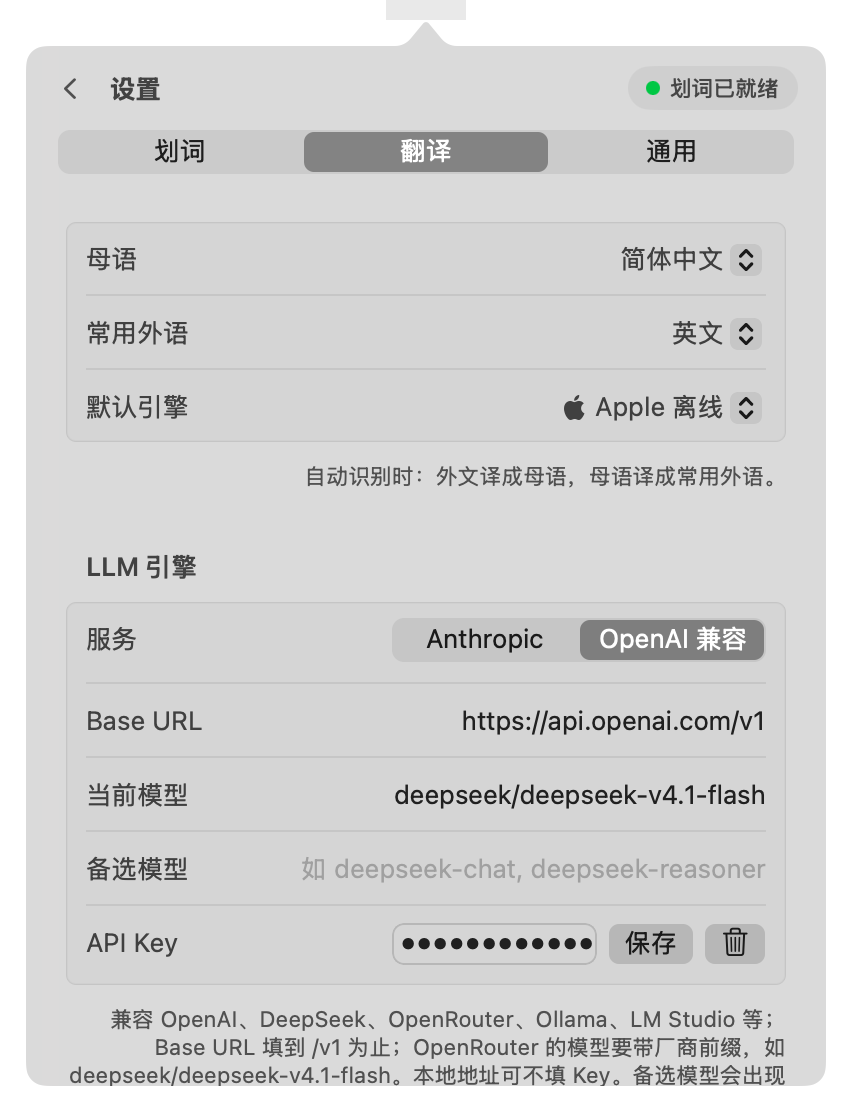
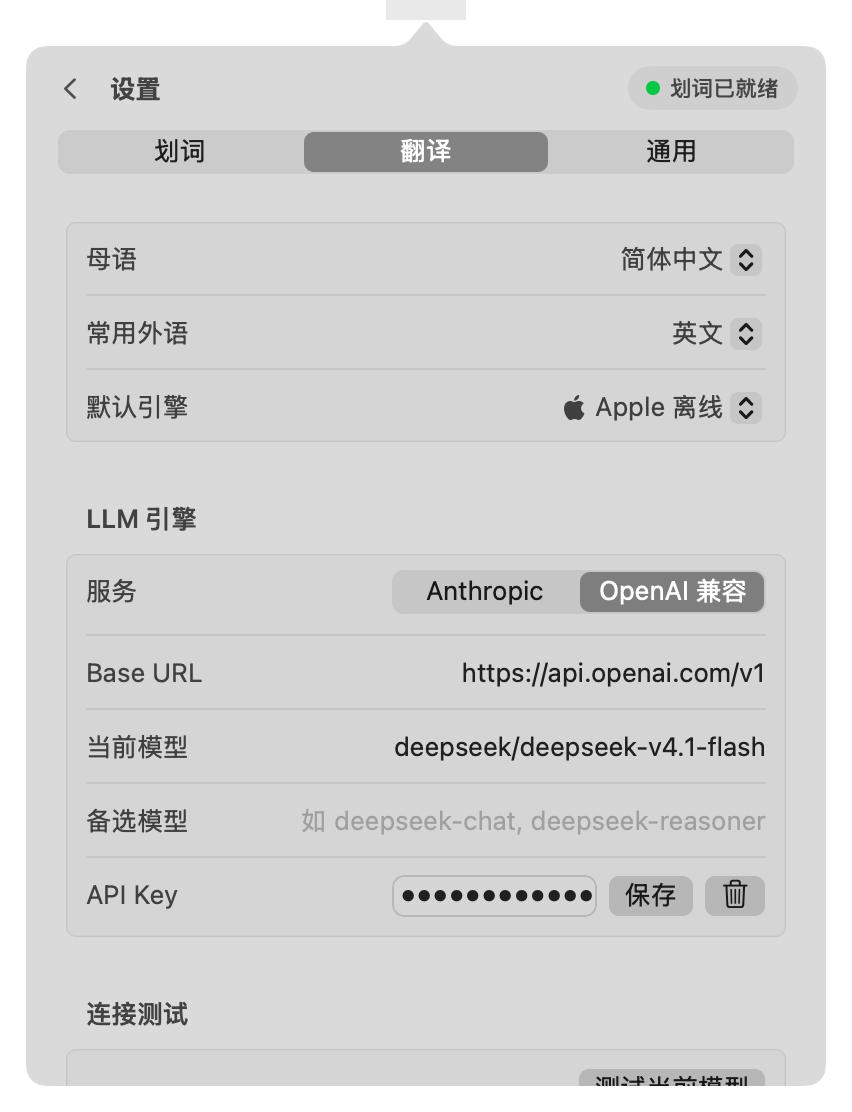
Remove descriptive footnotes and hints from the UI

diff --git a/Sources/bartrans/Views/SettingsView.swift b/Sources/bartrans/Views/SettingsView.swift
@@ -89,14 +89,8 @@ private struct SelectionSettings: View {
                         Image(systemName: "hand.raised.fill")
                             .font(.system(size: 18))
                             .foregroundStyle(.orange)
-                        VStack(alignment: .leading, spacing: 4) {
-                            Text("开启「辅助功能」权限")
-                                .font(.system(size: 13, weight: .semibold))
-                            Text("读取其它 App 中选中的文字需要这项权限。在「系统设置 → 隐私与安全性 → 辅助功能」中打开 bartrans；若已在列表中但不生效，先用「−」删除再重新添加。")
-                                .font(.system(size: 11))
-                                .foregroundStyle(.secondary)
-                                .fixedSize(horizontal: false, vertical: true)
-                        }
+                        Text("开启「辅助功能」权限")
+                            .font(.system(size: 13, weight: .semibold))
                         Spacer(minLength: 0)
                         Button("去开启") {
                             permission.request()
@@ -123,16 +117,10 @@ private struct SelectionSettings: View {
                         Text(preset.label).tag(preset)
                     }
                 }
-            } footer: {
-                Text("拖选、双击、三击或 Shift+点击都会触发。没有选中文字时按快捷键，会打开菜单栏面板。")
-                    .settingsFootnote()
             }
 
             Section {
-                Toggle("兼容模式（模拟 ⌘C 读取）", isOn: $settings.clipboardFallback)
-            } footer: {
-                Text("Chrome、VS Code 等 App 不通过辅助功能提供选中文字。开启后会短暂借用剪贴板，读完立即还原。")
-                    .settingsFootnote()
+                Toggle("兼容模式", isOn: $settings.clipboardFallback)
             }
 
             Section {
@@ -158,9 +146,6 @@ private struct SelectionSettings: View {
                 }
             } header: {
                 Text("已停用划词的 App")
-            } footer: {
-                Text("在某个 App 中右键点击菜单栏图标，可以停用 / 恢复该 App 的划词。")
-                    .settingsFootnote()
             }
         }
         .formStyle(.grouped)
@@ -186,9 +171,6 @@ private struct TranslationSettings: View {
                         Label(engine.label, systemImage: engine.icon).tag(engine)
                     }
                 }
-            } footer: {
-                Text("自动识别时：外文译成母语，母语译成常用外语。")
-                    .settingsFootnote()
             }
 
             Section {
@@ -212,11 +194,6 @@ private struct TranslationSettings: View {
                 }
             } header: {
                 Text("LLM 引擎")
-            } footer: {
-                Text(settings.llmProvider == .anthropic
-                     ? "备选模型会出现在翻译面板的引擎菜单里，一键切换。划词追求速度可以用 claude-haiku-4-5。API Key 保存在钥匙串中。"
-                     : "兼容 OpenAI、DeepSeek、OpenRouter、Ollama、LM Studio 等；Base URL 填到 /v1 为止；OpenRouter 的模型要带厂商前缀，如 deepseek/deepseek-v4.1-flash。本地地址可不填 Key。备选模型会出现在翻译面板的引擎菜单里，一键切换。")
-                    .settingsFootnote()
             }
 
             LLMTestSection(
@@ -295,9 +272,6 @@ private struct LLMTestSection: View {
     var body: some View {
         Section {
             HStack {
-                Text("用一句英文实际请求一次，检查 Key、地址和模型是否可用")
-                    .foregroundStyle(.secondary)
-                    .font(.system(size: 12))
                 Spacer()
                 if isRunning {
                     Button("停止") { stop() }
@@ -436,15 +410,6 @@ private struct GeneralSettings: View {
                 Text("关于")
             }
 
-            Section {
-                LabeledContent("划词") { Text("选中文字").foregroundStyle(.secondary) }
-                LabeledContent("翻译选中文字") { Text(settings.hotKey.label).foregroundStyle(.secondary) }
-                LabeledContent("面板内翻译 / 换行") { Text("↩  /  ⇧↩").foregroundStyle(.secondary) }
-                LabeledContent("复制译文") { Text("⇧⌘C").foregroundStyle(.secondary) }
-                LabeledContent("关闭浮窗") { Text("Esc").foregroundStyle(.secondary) }
-            } header: {
-                Text("快捷操作")
-            }
         }
         .formStyle(.grouped)
     }
@@ -475,10 +440,3 @@ private struct AppIconView: View {
     }
 }
 
-private extension Text {
-    func settingsFootnote() -> some View {
-        self.font(.system(size: 11))
-            .foregroundStyle(.secondary)
-            .fixedSize(horizontal: false, vertical: true)
-    }
-}

diff --git a/Sources/bartrans/Views/TranslatePanelView.swift b/Sources/bartrans/Views/TranslatePanelView.swift
@@ -135,14 +135,9 @@ struct TranslatePanelView: View {
             ) { viewModel.translate() }
 
             if viewModel.inputText.isEmpty {
-                VStack(alignment: .leading, spacing: 6) {
-                    Text("输入或粘贴文字")
-                        .font(.system(size: 15))
-                        .foregroundStyle(.tertiary)
-                    Text("↩ 翻译  ·  ⇧↩ 换行")
-                        .font(.system(size: 11))
-                        .foregroundStyle(.quaternary)
-                }
+                Text("输入或粘贴文字")
+                    .font(.system(size: 15))
+                    .foregroundStyle(.tertiary)
                 .padding(.horizontal, 16)
                 .padding(.top, 6)
                 .allowsHitTesting(false)
